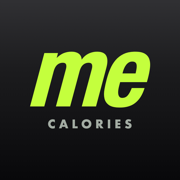
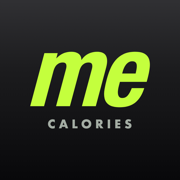
v10.37 图标：me 改用 HN Condensed Bold + 2px 描边（再细一档）

diff --git a/index.html b/index.html
@@ -7,11 +7,11 @@
 <meta name="apple-mobile-web-app-status-bar-style" content="black">
 <meta name="theme-color" content="#0a0b0c">
 <title>热量账本</title>
-<link rel="stylesheet" href="style.css?v=1020">
+<link rel="stylesheet" href="style.css?v=1021">
 <link rel="manifest" href="manifest.webmanifest">
 <!-- 换图标时必须改这里的 ?v=，否则 iOS 主屏图标会一直用缓存里的旧图 -->
-<link rel="apple-touch-icon" href="apple-touch-icon.png?v=1034">
-<link rel="icon" href="icon-192.png?v=1034">
+<link rel="apple-touch-icon" href="apple-touch-icon.png?v=1035">
+<link rel="icon" href="icon-192.png?v=1035">
 </head>
 <body>
 
@@ -457,10 +457,10 @@
   </div>
 </div>
 
-<script src="foods.js?v=1020"></script>
-<script src="icons.js?v=1020"></script>
-<script src="api.js?v=1020"></script>
-<script src="app.js?v=1020"></script>
+<script src="foods.js?v=1021"></script>
+<script src="icons.js?v=1021"></script>
+<script src="api.js?v=1021"></script>
+<script src="app.js?v=1021"></script>
 <script>
 /* 兜底：万一这次加载没完整（脚本没下来 / 执行出错），不要停在"全是破折号"的死界面。
    顺序：① 自己把没加载成功的脚本用 ?r=时间戳 再补一遍；② 还不行为一条可点重试的提示条，

diff --git a/app.js b/app.js
@@ -28,6 +28,11 @@ function nameLine(name, attr) {
 }
 
 const RELEASES = [
+  { v: 'v10.37', d: '10-29', items: [
+    '改：me 用 Helvetica Neue Condensed Bold + 2px 同色描边（比 v10.36 再细一档）—— 墨占 59.5%、字腔 2.08%，w10.36 是 60.7% / 1.94%，W3 是 68.8% / 1.28%',
+    '对齐沿用像素实测：视觉中心偏离 (-0.5, 0)',
+    '换图标地址版本号（?v=1035）',
+  ] },
   { v: 'v10.36', d: '10-29', items: [
     '改：me 换成 Helvetica Neue Condensed Bold + 4px 同色描边 —— 你说 W3（Condensed Black）字腔堵死了，实测它墨占 68.8%、字腔只剩 1.28%',
     '这版墨占 60.7%、字腔 1.94%（字腔面积比 W3 大 52%），笔画还是粗的，但 m 的两个拱、e 的口都通得出来',
@@ -3032,7 +3037,7 @@ const RELEASES = [
 
 
 // 版本号只在这里写一次，设置页和关于页都读它
-const APP_VERSION = 'v10.36';
+const APP_VERSION = 'v10.37';
 let groupMap = new Map();
 const WEEK = ['周日', '周一', '周二', '周三', '周四', '周五', '周六'];
 

diff --git a/sw.js b/sw.js
@@ -1,5 +1,5 @@
 /* 离线缓存：让 App 在没网的时候也能打开 */
-const CACHE = 'ledger-v1020';
+const CACHE = 'ledger-v1021';
 const ASSETS = [
   './',
   './index.html',
